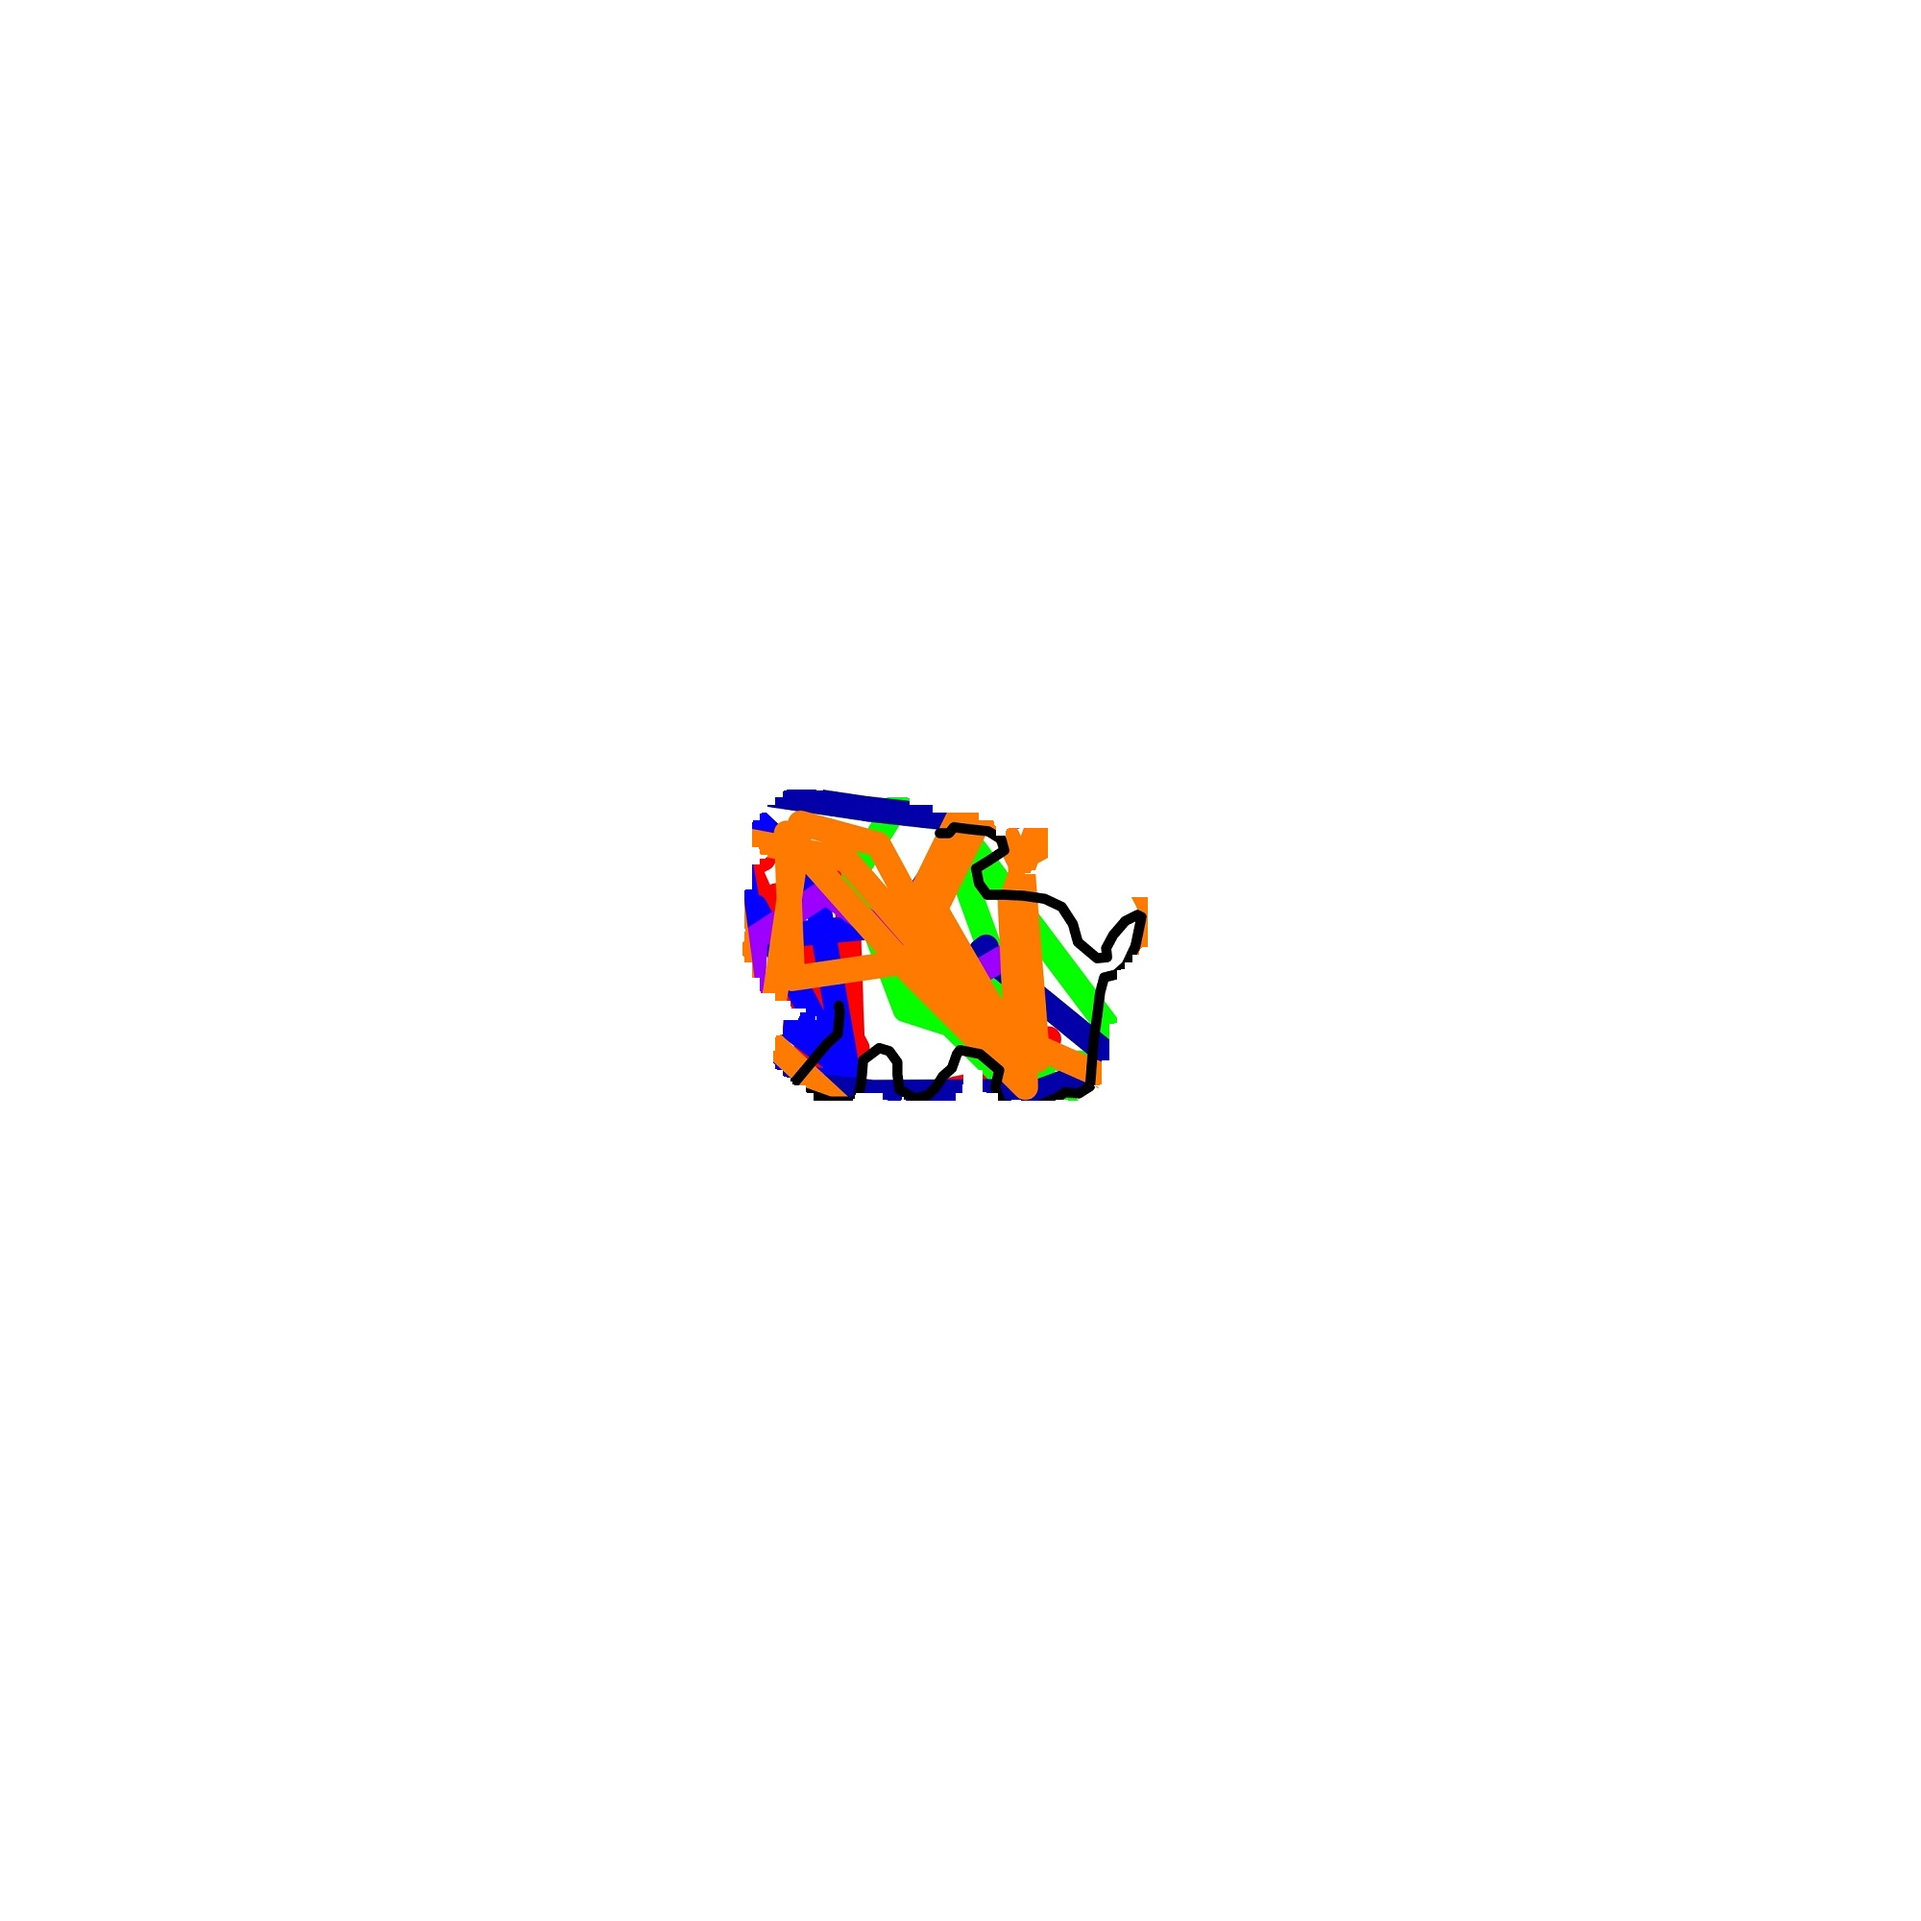
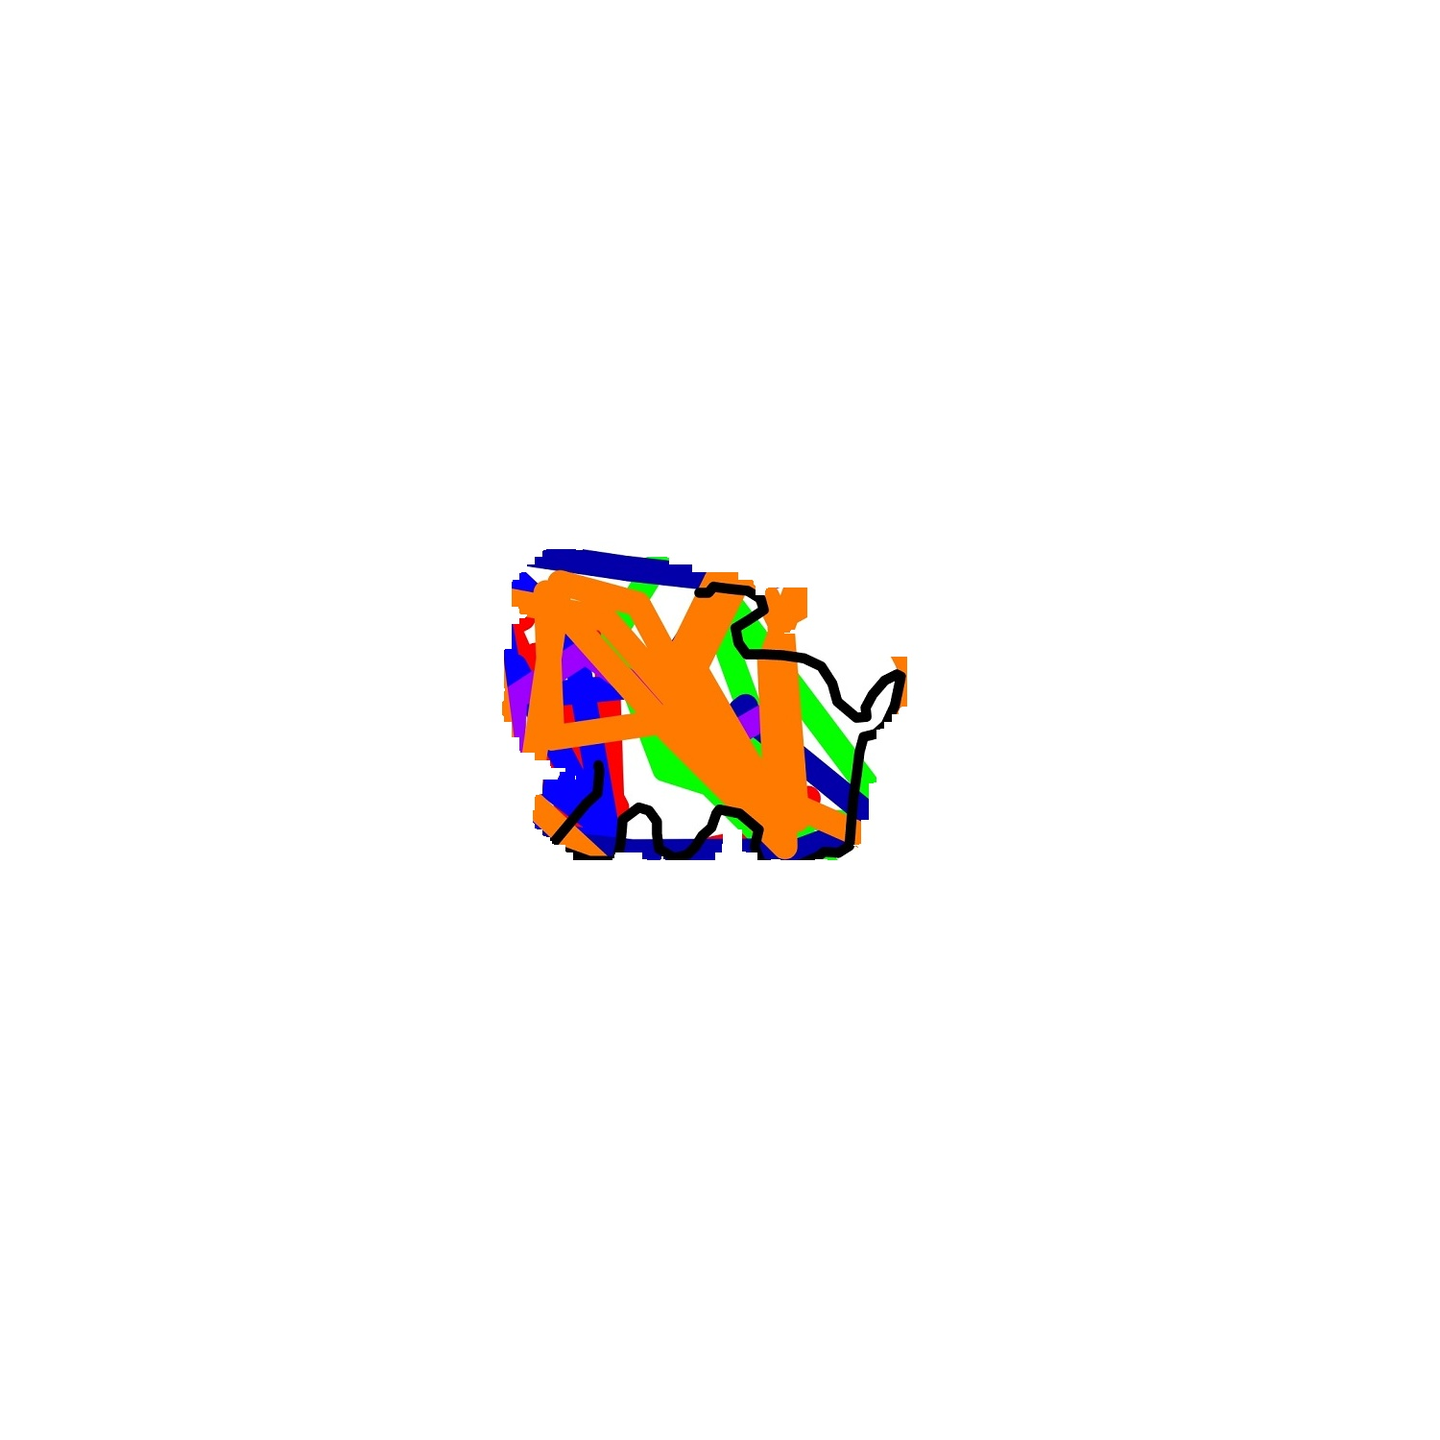
#done #feat(similarCheck): 1000x1000에서 2000x2000으로 사진의 사이즈를 키움

Changed region(s): [[0.3373, 0.368, 0.644, 0.6133]]

diff --git a/backend/SimilarCheck/app.py b/backend/SimilarCheck/app.py
@@ -87,23 +87,23 @@ def borderExtractionTest(roomId, originalPath, newPath):
     height, width = result_image.shape[:2]
 
     # 이미지를 중앙을 기준으로 500x500으로 자르기
-    start_row = max(0, int((height - 2000) / 2))
-    end_row = min(height, start_row + 2000)
-    start_col = max(0, int((width - 2000) / 2))
-    end_col = min(width, start_col + 2000)
+    start_row = max(0, int((height - 1500) / 2))
+    end_row = min(height, start_row + 1500)
+    start_col = max(0, int((width - 1500) / 2))
+    end_col = min(width, start_col + 1500)
 
     # 이미지를 1000x1000으로 자르거나 확장하기
     result_image = result_image[start_row:end_row, start_col:end_col]
 
-    if result_image.shape[0] < 2000:  # 세로가 500보다 작으면
-        pad_top = (2000 - result_image.shape[0]) // 2
-        pad_bottom = 2000 - result_image.shape[0] - pad_top
+    if result_image.shape[0] < 1500:  # 세로가 500보다 작으면
+        pad_top = (1500 - result_image.shape[0]) // 2
+        pad_bottom = 1500 - result_image.shape[0] - pad_top
         result_image = cv2.copyMakeBorder(result_image, pad_top, pad_bottom, 0, 0, cv2.BORDER_CONSTANT,
                                           value=(255, 255, 255))
 
-    if result_image.shape[1] < 2000:  # 가로가 500보다 작으면
-        pad_left = (2000 - result_image.shape[1]) // 2
-        pad_right = 2000 - result_image.shape[1] - pad_left
+    if result_image.shape[1] < 1500:  # 가로가 500보다 작으면
+        pad_left = (1500 - result_image.shape[1]) // 2
+        pad_right = 1500 - result_image.shape[1] - pad_left
         result_image = cv2.copyMakeBorder(result_image, 0, 0, pad_left, pad_right, cv2.BORDER_CONSTANT,
                                           value=(255, 255, 255))
 
